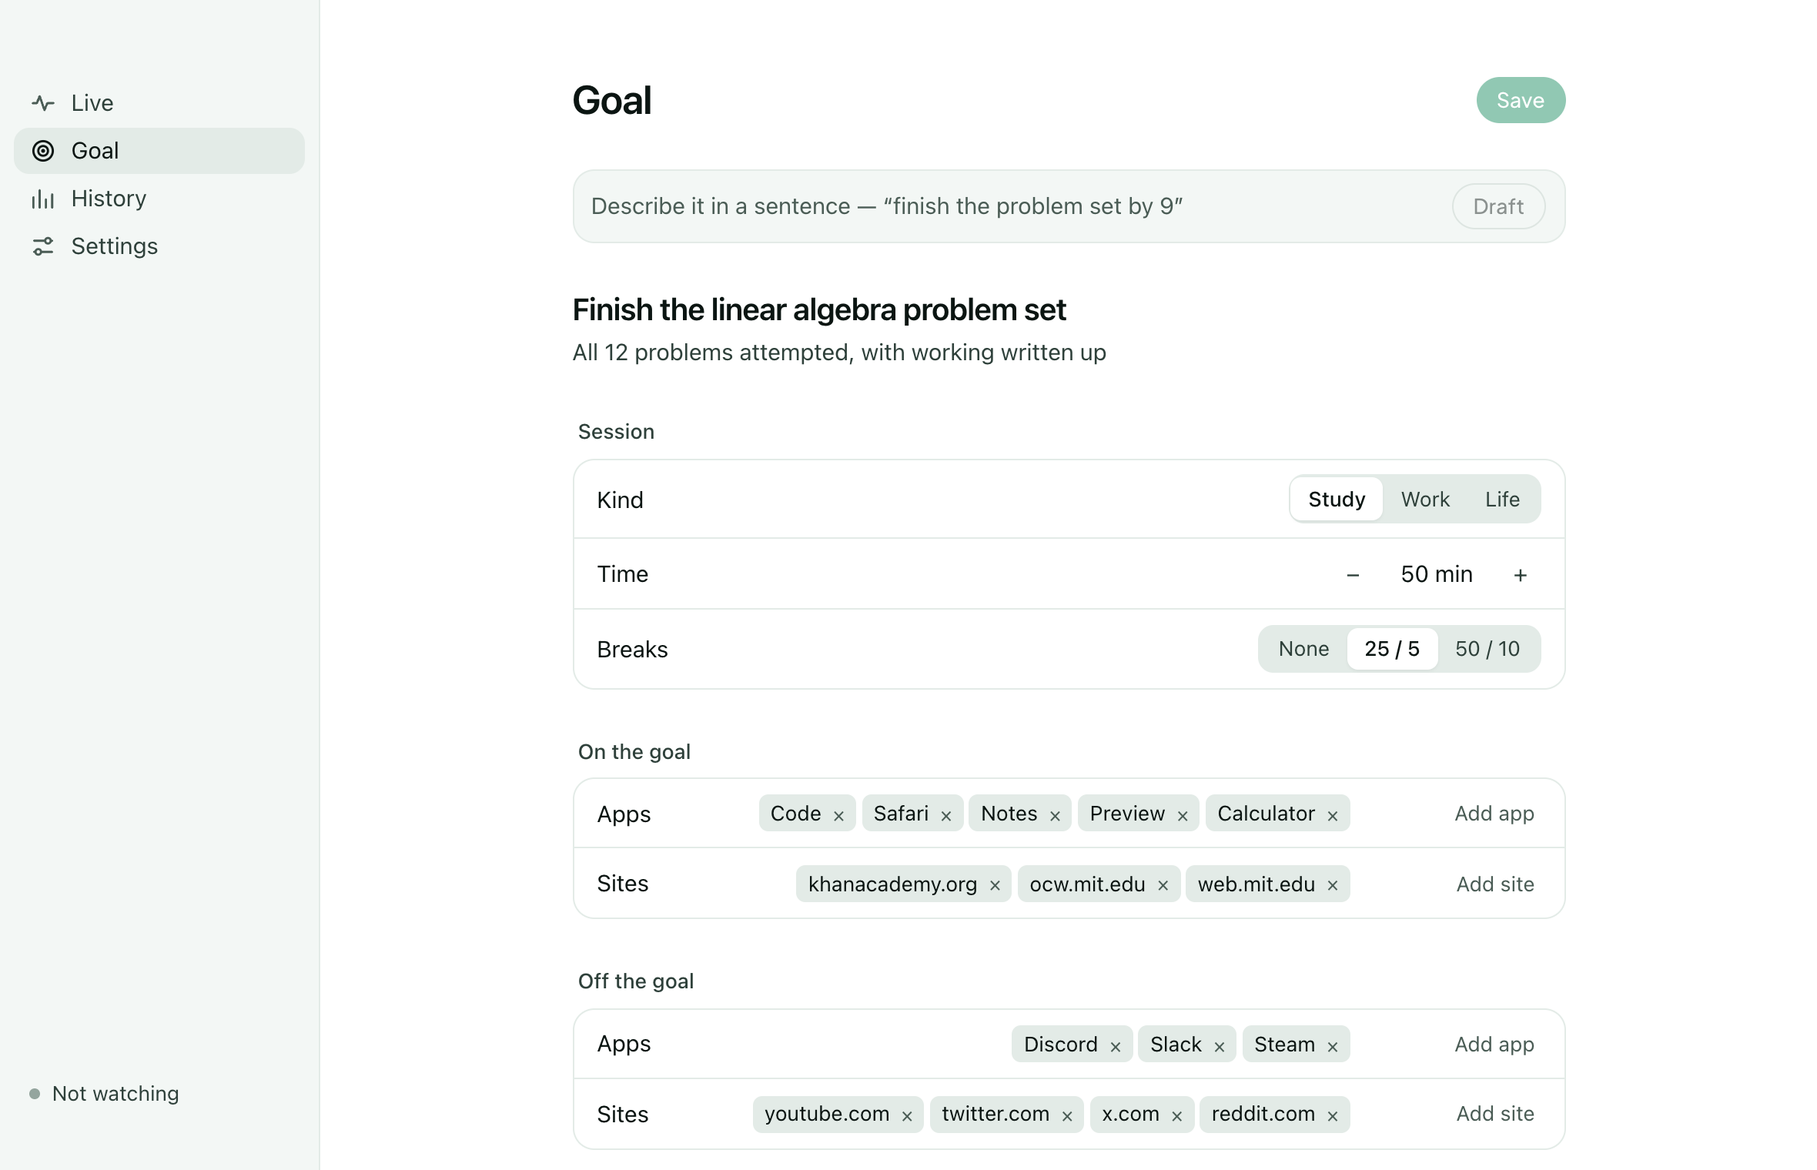
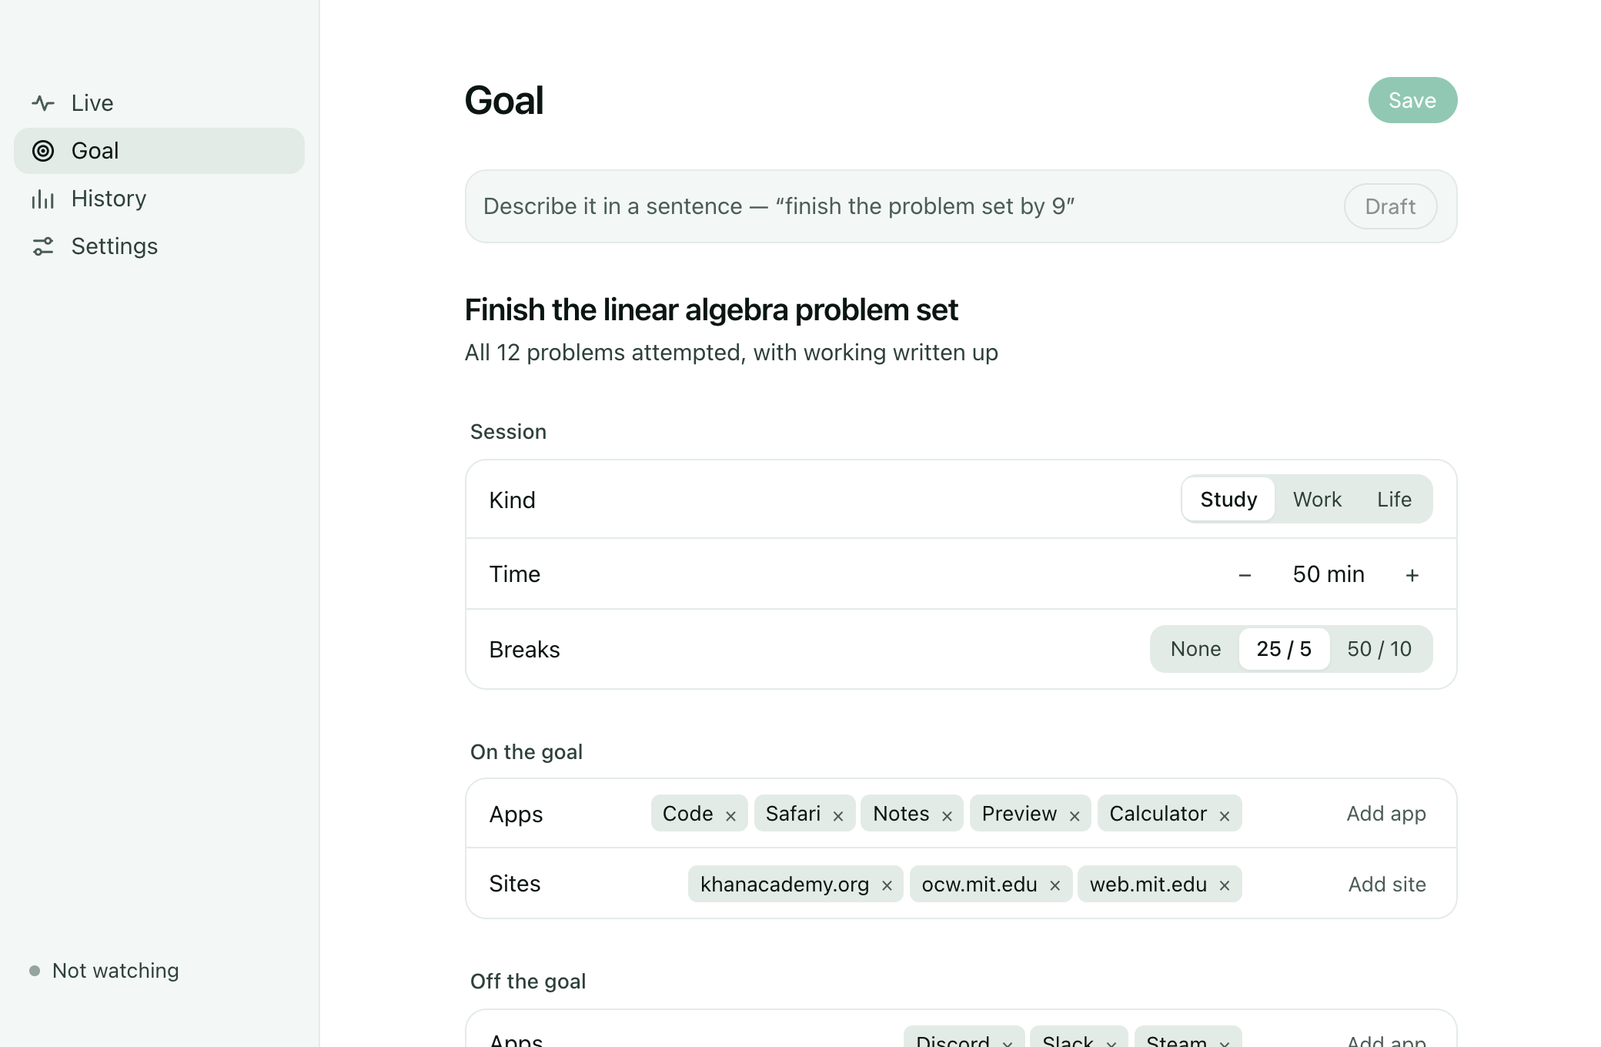
style(web): a real product tour, honest copy, and an audited site
The download page's alternating step rows become one app window with
Goal, Live and History tabs and a one-line caption each, on screenshots
retaken at 1040 px so the interface is legible. Permissions sit side by
side, each with what it reads and what it never reads, and there is one
download link.

Copy, audited end to end: the device page no longer says the desktop app
decides (the server does); "keeps nothing" stops repeating; headings stop
starting with "It"; one name per tier everywhere (Light, Nudge, Voice,
Change — the desktop's History follows); the shutter and works-with
lines read plainly; no line appears twice.

Also a branded 404, transparent unit stills so they sit on any surface,
priority on the still where it is the largest paint, and two-sentence
headlines that break at the sentence. axe: no violations on any page,
including 404; no console warnings; Lighthouse mobile 99 on home and
download.

diff --git a/apps/web/app/(marketing)/download/page.tsx b/apps/web/app/(marketing)/download/page.tsx
@@ -1,76 +1,52 @@
 import type { Metadata } from 'next'
 import Link from 'next/link'
-import { MacWindow } from '@/components/marketing/MacWindow'
+import { Tour } from '@/components/marketing/Tour'
 import { DOWNLOAD } from '@/lib/product'
 
 export const metadata: Metadata = {
-  title: 'Helicopter desktop',
-  description: 'The desktop app: set the goal, watch the session, and see what actually brings you back. Free.',
+  title: 'Desktop app',
+  description: 'Set the goal, see the session minute by minute, and learn what actually brings you back. Free.',
 }
 
 const PERMISSIONS = [
-  { name: 'Screen Recording', reads: 'Window titles, and one small screen frame at most every 10 seconds.', never: 'Password managers and banking apps, or the lock screen.' },
-  { name: 'Input Monitoring', reads: 'How often you type and click, per 30 seconds.', never: 'Which keys. No character is ever read.' },
-  { name: 'Accessibility', reads: 'Which element of the front app has focus.', never: 'What is inside it.' },
-] as const
-
-const STEPS = [
-  { n: '1', title: 'Say what you are here to do', body: 'Type it as a sentence. It drafts the goal — time, breaks, what counts as on and off — and you edit it.', shot: '/shots/goal.png', alt: 'The goal screen: a sentence becomes a goal with apps, sites and what it may do' },
-  { n: '2', title: 'Work', body: 'Minutes fill in as you go. It stays quiet while you are on the goal and steps in only when you drift.', shot: '/shots/live.png', alt: 'The live screen: a ribbon of minutes and the interruptions so far' },
-  { n: '3', title: 'See what brings you back', body: 'A week of focus, which interruptions worked, and what pulls you away — from the rows, not a guess.', shot: '/shots/history.png', alt: 'History: a week of focus and what brings you back' },
+  { name: 'Screen Recording', reads: 'Window titles, and a small screen frame at most every ten seconds.', never: 'Password managers, banking apps, or the lock screen.' },
+  { name: 'Input Monitoring', reads: 'How often you type and click, counted per 30 seconds.', never: 'Which keys. Not one character.' },
+  { name: 'Accessibility', reads: 'Which part of the front app has focus.', never: 'What is written in it.' },
 ] as const
 
 export default function DownloadPage() {
   return (
     <>
       <section className="mx-auto flex max-w-[var(--max-content)] flex-col items-center gap-5 px-5 pt-16 text-center md:pt-24">
-        <span className="text-body text-text-faint">Helicopter desktop</span>
-        <h1 className="max-w-[16ch] text-[40px] font-semibold leading-[1.04] tracking-[-0.03em] text-balance text-text md:text-display-1">
-          The goal, the session, and what works.
+        <span className="text-body text-text-faint">Desktop app · Free</span>
+        <h1 className="max-w-[15ch] text-[40px] font-semibold leading-[1.04] tracking-[-0.03em] text-balance text-text md:text-display-1">
+          Say what you are here to do. Watch it get done.
         </h1>
-        <div className="mt-2 flex flex-wrap items-center justify-center gap-3">
-          <a href={DOWNLOAD.appleSilicon} className="rounded-pill bg-text px-6 py-3 text-body-strong font-medium text-bg hover:opacity-85">
-            Download for Apple silicon
-          </a>
-          <a href={DOWNLOAD.intel} className="rounded-pill px-4 py-3 text-body-strong font-medium text-text-muted hover:text-text">
-            Intel
-          </a>
-        </div>
-        <span className="text-small text-text-faint">Free · {DOWNLOAD.requires} · works with or without the desk unit</span>
+        <a href={DOWNLOAD.url} className="mt-2 rounded-pill bg-text px-6 py-3 text-body-strong font-medium text-bg hover:opacity-85">
+          Download for macOS
+        </a>
+        <span className="text-small text-text-faint">{DOWNLOAD.requires} · works without the desk unit</span>
       </section>
 
       <section className="mx-auto max-w-[1100px] px-5 pt-14">
-        <MacWindow src="/shots/live-nudge.png" alt="The desktop app during a session, with a nudge in the corner" priority />
+        <Tour />
       </section>
 
-      <section className="mx-auto flex max-w-[var(--max-content)] flex-col gap-24 px-5 pt-32">
-        {STEPS.map((s, i) => (
-          <div key={s.n} className="grid items-center gap-10 md:grid-cols-[0.8fr_1.2fr]">
-            <div className={`flex flex-col gap-3 ${i % 2 ? 'md:order-2' : ''}`}>
-              <span className="tnum text-body text-text-faint">{s.n}</span>
-              <h2 className="text-title-1 font-semibold text-text">{s.title}</h2>
-              <p className="max-w-[40ch] text-body text-text-muted">{s.body}</p>
-            </div>
-            <MacWindow src={s.shot} alt={s.alt} />
-          </div>
-        ))}
-      </section>
-
-      <section className="mx-auto grid max-w-[var(--max-content)] gap-12 px-5 pt-32 md:grid-cols-[0.8fr_1.2fr]">
+      <section className="mx-auto flex max-w-[var(--max-content)] flex-col gap-10 px-5 pt-32">
         <div className="flex flex-col gap-3">
-          <h2 className="text-display-2 font-semibold text-text">It asks for three things.</h2>
-          <p className="max-w-[38ch] text-body text-text-muted">
-            Each is optional. Say no and that signal is simply absent — everything else keeps working.
+          <h2 className="text-display-2 font-semibold text-text">Three permissions. Each one optional.</h2>
+          <p className="max-w-[48ch] text-body text-text-muted">
+            Say no to any of them and that signal is simply missing. Nothing else stops working.
           </p>
         </div>
-        <div className="flex flex-col divide-y divide-border border-y border-border">
+        <div className="grid gap-px overflow-hidden rounded-[20px] border border-border bg-border md:grid-cols-3">
           {PERMISSIONS.map((p) => (
-            <div key={p.name} className="grid gap-2 py-6 sm:grid-cols-[170px_1fr]">
-              <span className="text-body-strong font-semibold text-text">{p.name}</span>
-              <div className="flex flex-col gap-1.5">
-                <span className="text-body text-text">{p.reads}</span>
-                <span className="text-small text-text-faint">Never: {p.never}</span>
-              </div>
+            <div key={p.name} className="flex flex-col gap-4 bg-bg p-7">
+              <span className="text-title-3 font-semibold text-text">{p.name}</span>
+              <p className="text-body text-text">{p.reads}</p>
+              <p className="mt-auto border-t border-border pt-4 text-small text-text-muted">
+                <span className="font-medium text-text">Never</span> — {p.never}
+              </p>
             </div>
           ))}
         </div>
@@ -80,7 +56,7 @@ export default function DownloadPage() {
         <div className="flex flex-col items-start justify-between gap-6 rounded-[28px] bg-surface p-10 md:flex-row md:items-center">
           <div className="flex flex-col gap-2">
             <h2 className="text-title-1 font-semibold text-text">Add eyes on the desk.</h2>
-            <p className="text-body text-text-muted">The desk unit sees the phone in your hand, which your computer never can.</p>
+            <p className="text-body text-text-muted">The desk unit notices the phone in your hand — something no app on your computer can.</p>
           </div>
           <Link href="/device" className="rounded-pill border border-border-strong bg-bg px-6 py-3 text-body-strong font-medium text-text hover:bg-ink-50">
             See the desk unit

diff --git a/apps/web/components/marketing/Tour.tsx b/apps/web/components/marketing/Tour.tsx
@@ -1,0 +1,72 @@
+'use client'
+
+import Image from 'next/image'
+import { useState, type KeyboardEvent } from 'react'
+import { cn } from '@heli/ui'
+
+const STOPS = [
+  { id: 'goal', label: 'Goal', caption: 'Type what you are here to do. It drafts the rest; you change what it got wrong.', src: '/shots/goal.png', alt: 'The goal screen: a sentence becomes a goal with time, breaks, and apps and sites on and off the goal' },
+  { id: 'live', label: 'Live', caption: 'Each minute fills in. When you drift, it nudges — and you choose what happens next.', src: '/shots/live-nudge.png', alt: 'The live screen: a ribbon of minutes, and a nudge offering to go back to the goal' },
+  { id: 'history', label: 'History', caption: 'Which interruptions actually brought you back, and what keeps pulling you away.', src: '/shots/history.png', alt: 'History: a week of focus, what brings you back, and what pulls you away' },
+] as const
+
+/** One window, three screens. Tabs switch the screenshot; arrow keys move between tabs. */
+export function Tour() {
+  const [i, setI] = useState(1)
+  const onKey = (e: KeyboardEvent) => {
+    if (e.key === 'ArrowRight') setI((i + 1) % STOPS.length)
+    if (e.key === 'ArrowLeft') setI((i + STOPS.length - 1) % STOPS.length)
+  }
+  return (
+    <div className="flex flex-col items-center gap-6">
+      <div role="tablist" aria-label="Screens" onKeyDown={onKey} className="inline-flex rounded-pill bg-ink-100 p-1">
+        {STOPS.map((s, n) => (
+          <button
+            key={s.id}
+            role="tab"
+            id={`tab-${s.id}`}
+            aria-selected={n === i}
+            aria-controls="tour-panel"
+            tabIndex={n === i ? 0 : -1}
+            onClick={() => setI(n)}
+            className={cn(
+              'rounded-pill px-5 py-1.5 text-small outline-none transition-colors duration-fast focus-visible:ring-2 focus-visible:ring-accent',
+              n === i ? 'bg-bg font-medium text-text shadow-sm' : 'text-text-muted hover:text-text',
+            )}
+          >
+            {s.label}
+          </button>
+        ))}
+      </div>
+      <p className="h-12 max-w-[52ch] text-center text-body text-text-muted sm:h-auto" aria-live="polite">
+        {STOPS[i]!.caption}
+      </p>
+      <div
+        id="tour-panel"
+        role="tabpanel"
+        aria-labelledby={`tab-${STOPS[i]!.id}`}
+        className="w-full overflow-hidden rounded-[14px] border border-border-strong/70 bg-bg shadow-lg"
+      >
+        <div className="flex h-8 items-center gap-1.5 border-b border-border bg-surface px-3.5" aria-hidden="true">
+          <span className="size-2.5 rounded-pill bg-ink-200" />
+          <span className="size-2.5 rounded-pill bg-ink-200" />
+          <span className="size-2.5 rounded-pill bg-ink-200" />
+        </div>
+        <div className="relative aspect-[2080/1360]">
+          {STOPS.map((s, n) => (
+            <Image
+              key={s.id}
+              src={s.src}
+              alt={n === i ? s.alt : ''}
+              aria-hidden={n !== i}
+              fill
+              priority={n === 1}
+              sizes="(min-width: 1100px) 1060px, 100vw"
+              className={cn('object-cover transition-opacity duration-slow', n === i ? 'opacity-100' : 'opacity-0')}
+            />
+          ))}
+        </div>
+      </div>
+    </div>
+  )
+}

diff --git a/apps/web/app/(marketing)/page.tsx b/apps/web/app/(marketing)/page.tsx
@@ -30,7 +30,7 @@ export default function Home() {
         <div className="relative overflow-hidden rounded-[28px] bg-surface">
           <div className="grid items-end md:grid-cols-[0.8fr_1.2fr]">
             <div className="relative order-2 h-[340px] md:order-1 md:h-[560px]">
-              <Unit />
+              <Unit priority />
             </div>
             <div className="order-1 px-5 pt-8 md:order-2 md:py-14 md:pl-0 md:pr-14">
               <MacWindow src="/shots/live-nudge.png" alt="The Helicopter desktop app mid-session: a ribbon of minutes, and a nudge offering to go back to the goal" priority />
@@ -43,7 +43,9 @@ export default function Home() {
       <section className="mx-auto flex max-w-[var(--max-content)] flex-col gap-8 px-5 pt-28 md:pt-36">
         <div className="grid gap-6 md:grid-cols-[1fr_1fr] md:items-end">
           <h2 className="max-w-[18ch] text-display-2 font-semibold text-balance text-text">
-            Forty minutes. It spoke up twice.
+            Forty minutes.
+            <br />
+            It spoke up twice.
           </h2>
           <p className="max-w-[46ch] text-body text-text-muted md:justify-self-end">
             Each cell is a minute. A nudge at minute fourteen was ignored; the spoken line a minute later was not. The rest
@@ -57,9 +59,11 @@ export default function Home() {
       {/* How it decides. */}
       <section className="mx-auto flex max-w-[var(--max-content)] flex-col gap-12 px-5 pt-28 md:pt-36">
         <div className="flex flex-col gap-4">
-          <h2 className="max-w-[20ch] text-display-2 font-semibold text-balance text-text">It earns every step up.</h2>
+          <h2 className="max-w-[20ch] text-display-2 font-semibold text-balance text-text">Quiet first.
+            <br />
+            Louder only if that fails.</h2>
           <p className="max-w-[54ch] text-body text-text-muted">
-            A model reads the desk and the screen. Rules you set decide what happens — and a step up only comes when the step
+            A model reads the desk and the screen; your goal decides what it may do. Each step up happens only because the one
             below it did not work.
           </p>
         </div>
@@ -108,7 +112,7 @@ export default function Home() {
       {/* Close. */}
       <section className="mx-auto max-w-[var(--max-content)] px-5 py-28 md:py-36">
         <div className="flex flex-col items-center gap-6 rounded-[28px] border border-border px-6 py-16 text-center">
-          <h2 className="text-display-2 font-semibold text-balance text-text">Sit down. Say what you are here to do.</h2>
+          <h2 className="text-display-2 font-semibold text-balance text-text">Try it on your next forty minutes.</h2>
           <div className="flex flex-wrap justify-center gap-3">
             <Link href="/order" className="rounded-pill bg-text px-6 py-3 text-body-strong font-medium text-bg hover:opacity-85">
               Order the desk unit

diff --git a/apps/web/app/(marketing)/device/page.tsx b/apps/web/app/(marketing)/device/page.tsx
@@ -16,9 +16,9 @@ const PARTS = [
 ] as const
 
 const NEVER = [
-  'Stores a frame. It sends, the desktop app decides, and nothing stays on the unit.',
+  'Stores a frame. Frames go to your Helicopter server; nothing stays on the unit.',
   'Calls a model or holds a key. It has no idea what it is looking at.',
-  'Sends anything with the shutter closed — within 200 ms of closing it.',
+  'Sends anything with the shutter shut. Frames stop within 200 ms of closing it.',
   'Animates while you are concentrating. A light that moves is a light that interrupts.',
 ] as const
 
@@ -30,7 +30,7 @@ const SPECS: Array<[string, string]> = [
   ['Privacy', 'Mechanical shutter, reported to the app'],
   ['Connection', 'Wi-Fi · pairs with a code from the desktop app'],
   ['Power', 'USB-C'],
-  ['Works with', 'Helicopter desktop'],
+  ['Works with', 'The Helicopter desktop app, macOS 13 or later'],
 ]
 
 export default function DevicePage() {
@@ -39,7 +39,7 @@ export default function DevicePage() {
       <section className="mx-auto flex max-w-[var(--max-content)] flex-col items-center gap-4 px-5 pt-16 text-center md:pt-20">
         <span className="text-body text-text-faint">Desk unit</span>
         <h1 className="max-w-[18ch] text-[40px] font-semibold leading-[1.04] tracking-[-0.03em] text-balance text-text md:text-display-1">
-          It watches the desk, and keeps nothing.
+          Your computer cannot see your desk. This can.
         </h1>
         <div className="mt-2 flex items-center gap-4">
           <Link href="/order" className="rounded-pill bg-text px-6 py-3 text-body-strong font-medium text-bg hover:opacity-85">

diff --git a/apps/web/components/marketing/Unit.tsx b/apps/web/components/marketing/Unit.tsx
@@ -16,10 +16,13 @@ const Scene = dynamic(() => import('./DeviceScene').then((m) => m.DeviceScene), 
 export function Unit({
   state = 'watching',
   live = true,
+  priority = false,
   className,
 }: {
   state?: UnitState
   live?: boolean
+  /** Set where the unit is the largest thing above the fold. */
+  priority?: boolean
   className?: string
 }) {
   const host = useRef<HTMLDivElement>(null)
@@ -57,6 +60,7 @@ export function Unit({
         src={`/unit/${poster}.webp`}
         alt="The Helicopter desk unit"
         fill
+        priority={priority}
         sizes="(min-width: 1024px) 600px, 100vw"
         className={cn('object-contain transition-opacity duration-slow', ready ? 'opacity-0' : 'opacity-100')}
       />
@@ -88,7 +92,7 @@ export function UnitStates({ className }: { className?: string }) {
   return (
     <div className={cn('flex flex-col items-center gap-6', className)}>
       <div className="h-[460px] w-full md:h-[560px]">
-        <Unit state={state} />
+        <Unit state={state} priority />
       </div>
       <div role="radiogroup" aria-label="Unit state" className="inline-flex rounded-pill bg-ink-100 p-1">
         {STATES.map((s) => (

diff --git a/apps/web/app/not-found.tsx b/apps/web/app/not-found.tsx
@@ -1,0 +1,20 @@
+import Link from 'next/link'
+import { Footer } from '@/components/marketing/Footer'
+import { Nav } from '@/components/marketing/Nav'
+
+export default function NotFound() {
+  return (
+    <div className="flex min-h-dvh flex-col">
+      <Nav />
+      <main className="mx-auto flex w-full max-w-[var(--max-content)] flex-1 flex-col items-start justify-center gap-5 px-5 py-24">
+        <span className="text-body text-text-faint">404</span>
+        <h1 className="max-w-[16ch] text-display-2 font-semibold text-balance text-text md:text-display-1">Off the goal.</h1>
+        <p className="text-body text-text-muted">There is no page here.</p>
+        <Link href="/" className="rounded-pill bg-text px-5 py-2.5 text-body-strong font-medium text-bg hover:opacity-85">
+          Back to the start
+        </Link>
+      </main>
+      <Footer />
+    </div>
+  )
+}

diff --git a/apps/web/components/marketing/Ladder.tsx b/apps/web/components/marketing/Ladder.tsx
@@ -2,7 +2,7 @@ import { cn } from '@heli/ui'
 
 const STEPS = [
   { name: 'Silent', does: 'Logs the minute. Most minutes end here.', when: 'You are on the goal', dot: 'bg-ink-300' },
-  { name: 'Tray', does: 'The menu bar and the desk light turn amber.', when: '30 s off the goal', dot: 'bg-jade-400' },
+  { name: 'Light', does: 'The menu-bar icon and the desk light turn amber.', when: '30 s off the goal', dot: 'bg-jade-400' },
   { name: 'Nudge', does: 'A notification: back to the goal, or snooze.', when: 'Still off a minute later', dot: 'bg-warn' },
   { name: 'Voice', does: 'One sentence out loud. Talk over it to stop it.', when: 'The nudge did not work', dot: 'bg-text' },
   { name: 'Change', does: 'Mutes the site or starts the break. Undo in one click.', when: 'Only if you allow it', dot: 'bg-ink-500' },

diff --git a/apps/web/components/marketing/MacWindow.tsx b/apps/web/components/marketing/MacWindow.tsx
@@ -20,7 +20,7 @@ export function MacWindow({
         <span className="size-2.5 rounded-pill bg-ink-200" />
         <span className="size-2.5 rounded-pill bg-ink-200" />
       </div>
-      <Image src={src} alt={alt} width={2360} height={1520} priority={priority} className="block h-auto w-full" sizes="(min-width: 1024px) 760px, 100vw" />
+      <Image src={src} alt={alt} width={2080} height={1360} priority={priority} className="block h-auto w-full" sizes="(min-width: 1024px) 760px, 100vw" />
     </figure>
   )
 }

diff --git a/apps/web/app/(marketing)/privacy/page.tsx b/apps/web/app/(marketing)/privacy/page.tsx
@@ -26,7 +26,7 @@ const SECTIONS: Array<{ title: string; body: string[] }> = [
   {
     title: 'The shutter',
     body: [
-      'The desk unit has a mechanical shutter. Slide it shut and no frame leaves the unit within 200 ms; the app shows it as closed, and the ring shows two amber dots.',
+      'The desk unit has a mechanical shutter. Slide it shut and frames stop within 200 ms; none leave the unit while it stays shut. The desktop app shows it as closed, and the ring shows two amber dots.',
     ],
   },
   {

diff --git a/apps/desktop/src/components/history/Worked.tsx b/apps/desktop/src/components/history/Worked.tsx
@@ -1,6 +1,6 @@
 import type { TierEffect } from '../../lib/analytics'
 
-const NAME: Record<number, string> = { 1: 'Tray', 2: 'Nudge', 3: 'Voice', 4: 'Machine change' }
+const NAME: Record<number, string> = { 1: 'Light', 2: 'Nudge', 3: 'Voice', 4: 'Change' }
 
 /** Share of interruptions after which you came back within two minutes. */
 export function Worked({ effects, best }: { effects: TierEffect[]; best: TierEffect | null }) {

diff --git a/apps/web/app/(marketing)/order/page.tsx b/apps/web/app/(marketing)/order/page.tsx
@@ -11,7 +11,7 @@ export default function OrderPage() {
   return (
     <section className="mx-auto grid max-w-[1280px] gap-10 px-5 py-10 lg:grid-cols-[1.15fr_0.85fr] lg:py-14">
       <div className="h-[380px] rounded-[28px] bg-surface lg:sticky lg:top-20 lg:h-[640px]">
-        <Unit />
+        <Unit priority />
       </div>
       <div className="flex flex-col gap-8 lg:py-6">
         <div className="flex flex-col gap-2">

diff --git a/apps/web/lib/product.ts b/apps/web/lib/product.ts
@@ -3,8 +3,7 @@
 export const PRICE = { unit: 79, currency: 'USD' } as const
 
 export const DOWNLOAD = {
-  appleSilicon: 'https://github.com/Mutesa-Cedric/helicopter/releases/latest',
-  intel: 'https://github.com/Mutesa-Cedric/helicopter/releases/latest',
+  url: 'https://github.com/Mutesa-Cedric/helicopter/releases/latest',
   requires: 'macOS 13 Ventura or later',
 } as const
 
